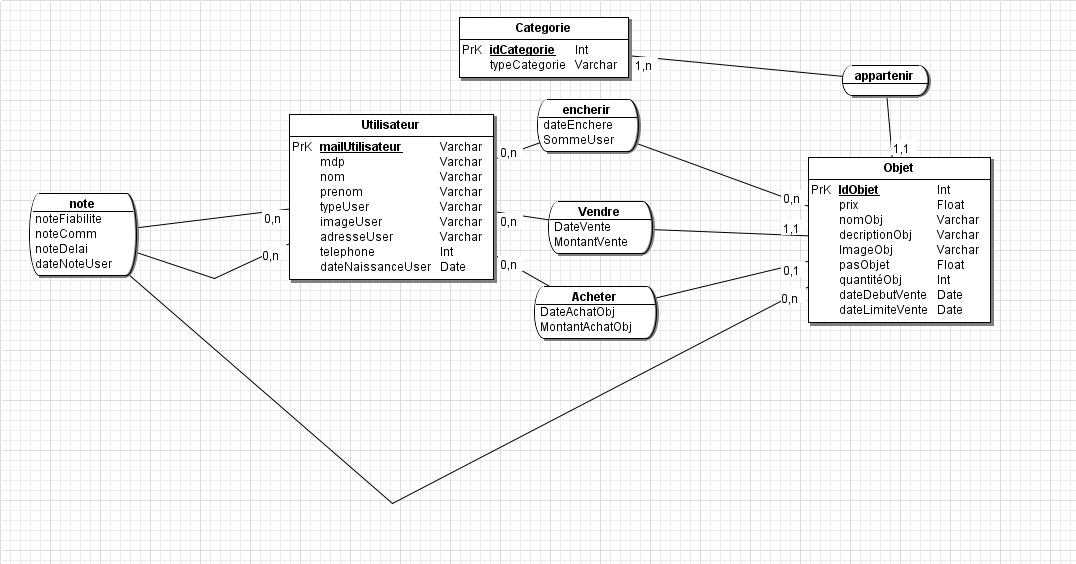
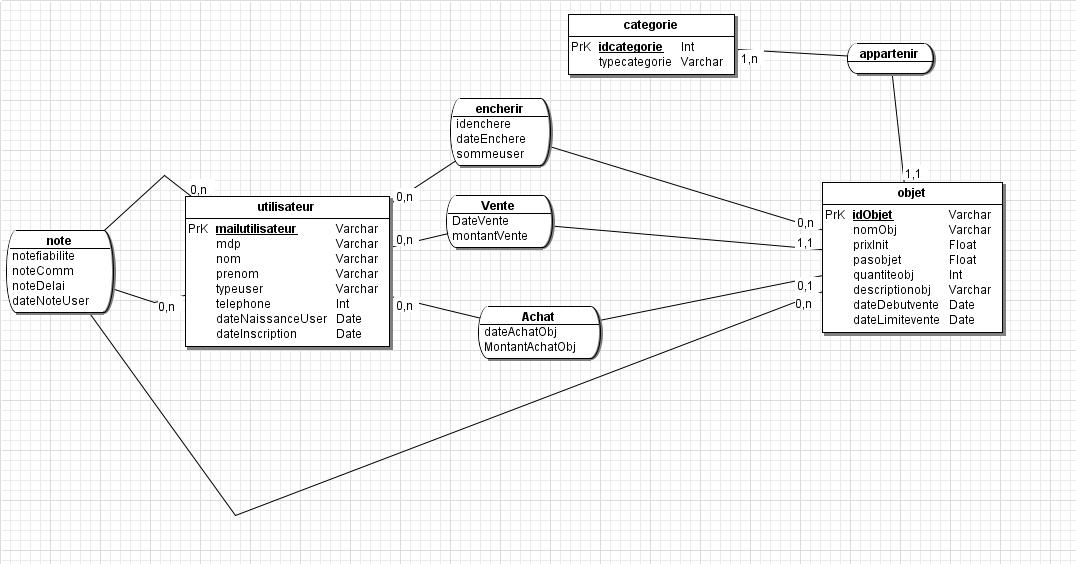
Modif objet et compteother, et mise à jour mCD et MLD

diff --git a/Sources/compteother.php b/Sources/compteother.php
@@ -16,9 +16,6 @@
 				case 2:
 					$loginother = $_SESSION['mailutilisateuracheteur'];
 					break;
-				default:
-					$loginother = "";
-					break;
 			}
 		$db = "postgres";
 		$user = "postgres";
@@ -49,12 +46,13 @@
 	$_SESSION['nbobjach'] = $ventesachats['nbachats'];
 	$nbobjvendu = $_SESSION['nbobjvendu'];
 	$nbobjach = $_SESSION['nbobjach'];
-
-	if($loginother!=""){
+?>
+	<?php
 		echo "<h1>Vous ètes sur le compte de : $loginother</h1>";
-
-		echo "<div class=\"gauche2_3\">";
-			echo "<h2><b>Photo de profil</b></h2>";
+	?>
+	<div class="gauche2_3">
+			<h2><b>Photo de profil</b></h2>
+			<?php
 				$lienimage = "uploads/photouser/user".$loginother.".jpg";
 				$lienimage2 = "uploads/photouser/user".$loginother.".jpeg";
 				$lienimage3 = "uploads/photouser/user".$loginother.".gif";
@@ -69,10 +67,10 @@
 				}else if(file_exists($lienimage4)){
 					$lienimage=$lienimage4;
 				}
-		echo "<img src=\"".$lienimage."\"  width=\"150\" height=\"150\" border=3>";
-
-			echo "<h2><b>Infomations personnelles</b></h2>";
-
+	echo "<img src=\"".$lienimage."\"  width=\"150\" height=\"150\" border=3>";
+	?>
+			<h2><b>Infomations personnelles</b></h2>
+				<?php
 					echo "<br />\n";
 					echo "Nom : $nom";
 					echo "<br />\n";
@@ -82,9 +80,9 @@
 					echo "<br />\n";
 					echo "Date d'inscription : $dateinscription";
 					echo "<br />\n";
-
-			echo "<h2><b>Coordonnées</b></h2>";
-				
+				?>
+			<h2><b>Coordonnées</b></h2>
+				<?php
 					echo "<br />\n";
 					echo "Adresse : $adresseuser";
 					echo "<br />\n";
@@ -92,20 +90,18 @@
 					echo "<br />\n";
 					echo "Mail : $loginother";
 					echo "<br />\n";
-				
-			echo "<h2><b>Statistiques sur BidBay</b></h2>";
-				
+				?>
+			<h2><b>Statistiques sur BidBay</b></h2>
+				<?php
 					echo "<br />\n";
 					echo "Nombre d'objet vendu : $nbobjvendu";
 					echo "<br />\n";
 					echo "Nombre d'objet acheté : $nbobjach";
 					echo "<br />\n";
-	}else{
-		echo "<br>Aucun utilisateur n'a encore enchéri sur cet objet.<br><br>";
-	}
 				?>				
 	</div>
 </form>
 <?php
+	//require 'headfoot.php';
 	footerHTML();
 ?>

diff --git a/Sources/objet.php b/Sources/objet.php
@@ -69,21 +69,21 @@
 	</div>
 	<div class ="gauche2_3">
 	<?php
-		$lienimage = "uploads/photoobjet/objet".$row[0].".jpg";
-		$lienimage2 = "uploads/photoobjet/objet".$row[0].".jpeg";
-		$lienimage3 = "uploads/photoobjet/objet".$row[0].".gif";
-		$lienimage4 = "uploads/photoobjet/objet".$row[0].".png";
-		if(!file_exists($lienimage)){
-			$lienimage="photo_objet_defaut.png";
-		}
-		if(file_exists($lienimage2)){
-			$lienimage=$lienimage2;
-		}else if(file_exists($lienimage3)){
-			$lienimage=$lienimage3;
-		}else if(file_exists($lienimage4)){
-			$lienimage=$lienimage4;
-		}
-		echo "<img src=\"".$lienimage."\"  width=\"150\" height=\"150\" border=3>";
+				$lienimage = "uploads/photoobjet/objet".$row[0].".jpg";
+				$lienimage2 = "uploads/photoobjet/objet".$row[0].".jpeg";
+				$lienimage3 = "uploads/photoobjet/objet".$row[0].".gif";
+				$lienimage4 = "uploads/photoobjet/objet".$row[0].".png";
+				if(file_exists($lienimage2)){
+					$lienimage=$lienimage2;
+				}else if(file_exists($lienimage3)){
+					$lienimage=$lienimage3;
+				}else if(file_exists($lienimage4)){
+					$lienimage=$lienimage4;
+				}
+				if(!file_exists($lienimage)){
+					$lienimage="photo_objet_defaut.png";
+				}
+	echo "<img src=\"".$lienimage."\"  width=\"150\" height=\"150\" border=3>";
 	?>
 		<form action="acheter.php" method="post">
 		<div class="center">
